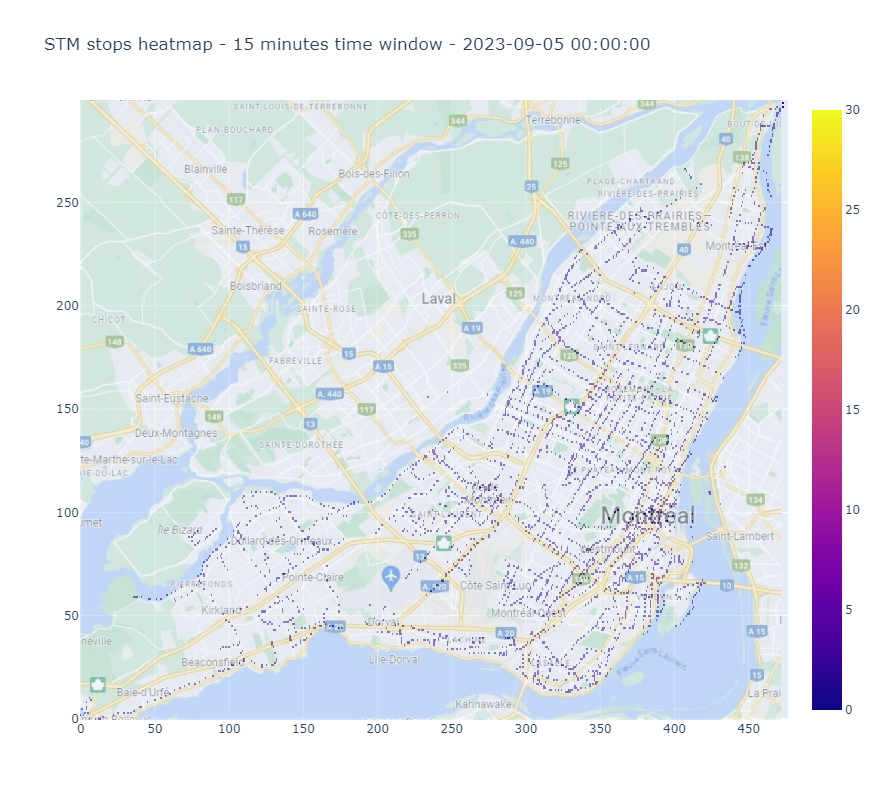
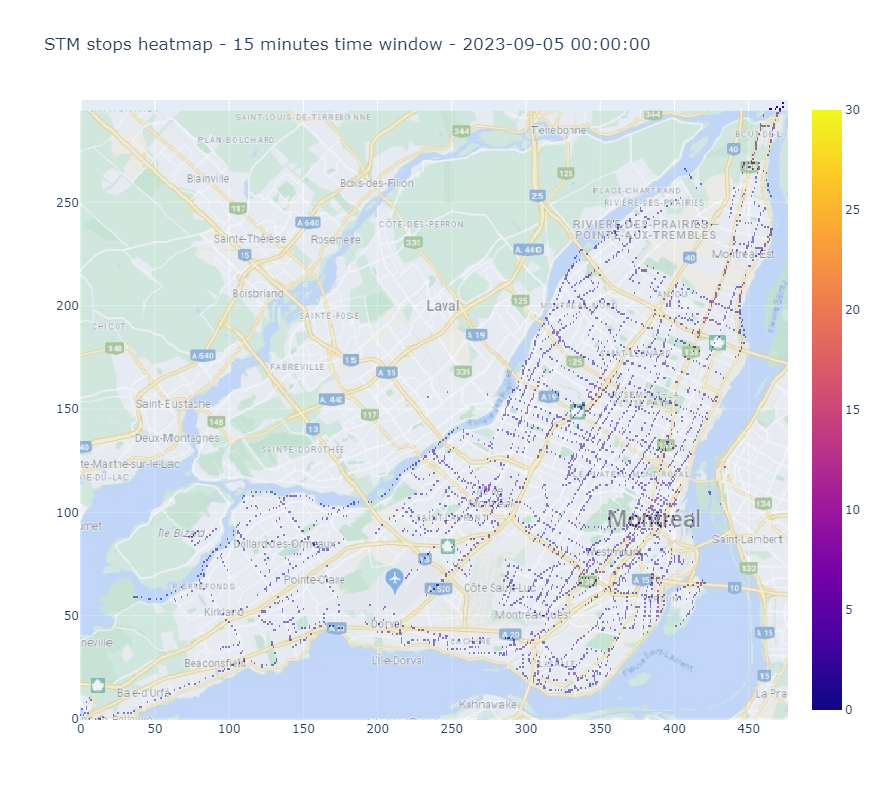
modif

Changed region(s): [[0.092, 0.125, 0.9205, 0.9062], [0.1534, 0.625, 0.1841, 0.6562]]

diff --git a/Real/heatmap.py b/Real/heatmap.py
@@ -38,9 +38,17 @@ def get_filtered_merged_df(datetime_start, datetime_end):
 
     return merged_df_filtered
 
+def removeMetroTrips(df):
+    return df[(df['route_id'] != '1') & 
+               (df['route_id'] != '2') & 
+               (df['route_id'] != '4') & 
+               (df['route_id'] != '5')]
+
 def getStopTimesWithinTimeWindow(datetime, time_window):
     time_window_start, time_window_end = get_time_window(datetime, time_window)
     merged_df_filtered = get_filtered_merged_df(time_window_start, time_window_end)
+
+    no_metro_df = removeMetroTrips(merged_df_filtered)
 
     string_time_start = time_window_start.time().strftime('%H:%M:%S')
     string_time_end = time_window_end.time().strftime('%H:%M:%S')
@@ -48,9 +56,9 @@ def getStopTimesWithinTimeWindow(datetime, time_window):
     time_start = pd.to_datetime(string_time_start, format='%H:%M:%S')
     time_end = pd.to_datetime(string_time_end, format='%H:%M:%S')
 
-    filtered_df = merged_df_filtered[
-        (merged_df_filtered['arrival_time'] >= time_start) &
-        (merged_df_filtered['arrival_time'] <= time_end)]
+    filtered_df = no_metro_df[
+        (no_metro_df['arrival_time'] >= time_start) &
+        (no_metro_df['arrival_time'] <= time_end)]
 
     return filtered_df
 
@@ -59,6 +67,7 @@ def get_trips_in_time_window(filtered_df, stops):
     filtered_df_stop_filter = filtered_df[filtered_df['stop_id'].isin(stopseries)]
 
     unique_trip_df = filtered_df_stop_filter.drop_duplicates(subset='trip_id')
+
 
     trips_in_time_window = unique_trip_df.shape[0]
     return trips_in_time_window
